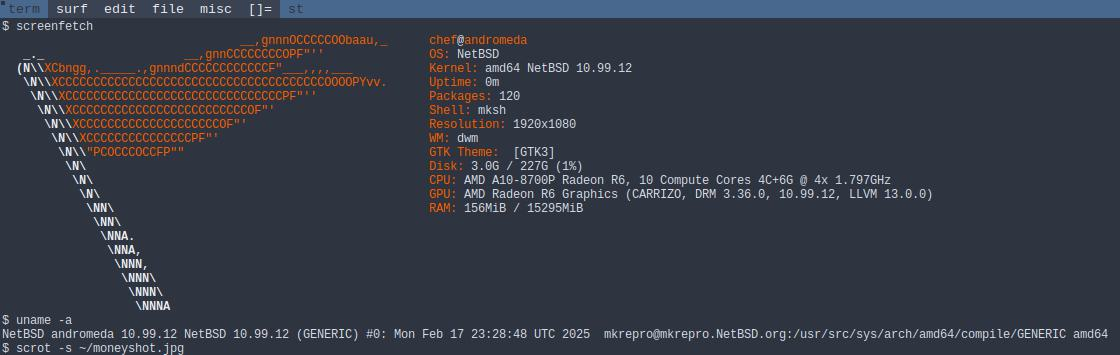
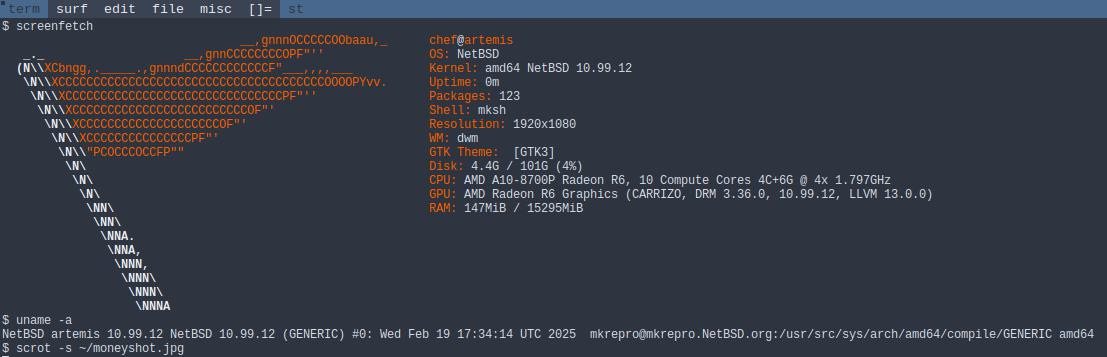
adds and tweaks

Changed region(s): [[0.0, 0.093, 1.0, 1.0], [0.0307, 0.0, 0.2764, 0.062], [0.0307, 0.062, 0.0921, 0.093]]

diff --git a/home/Source/dwm/config.h b/home/Source/dwm/config.h
@@ -62,7 +62,7 @@ static const Layout layouts[] = {
 static char dmenumon[2] = "0"; /* component of dmenucmd, manipulated in spawn() */
 static const char *dmenucmd[] = { "dmenu_start.sh", "-fn", dmenufont, "-nb", col_gray1, "-nf", col_gray3, "-sb", col_cyan, "-sf", col_gray4, NULL };
 static const char *termcmd[]  = { "st", NULL };
-static const char *surfcmd[]  = { "firefox.sh", NULL };
+static const char *surfcmd[]  = { "firefox", NULL };
 static const char *editcmd[]  = { "geany", NULL };
 static const char *somacmd[]  = { "/home/chef/.bin/dmenu_soma.sh", NULL };
 static const char *wallcmd[]  = { "bud ~/Pictures/Wallpapers", NULL };

diff --git a/README.md b/README.md
@@ -1,4 +1,4 @@
-NetBSD andromeda 10.99.12 NetBSD 10.99.12 (GENERIC) #0: Mon Feb 17 23:28:48 UTC 2025
+NetBSD artemis 10.99.12 NetBSD 10.99.12 (GENERIC) #0: Wed Feb 19 17:34:14 UTC 2025
 
 
 
